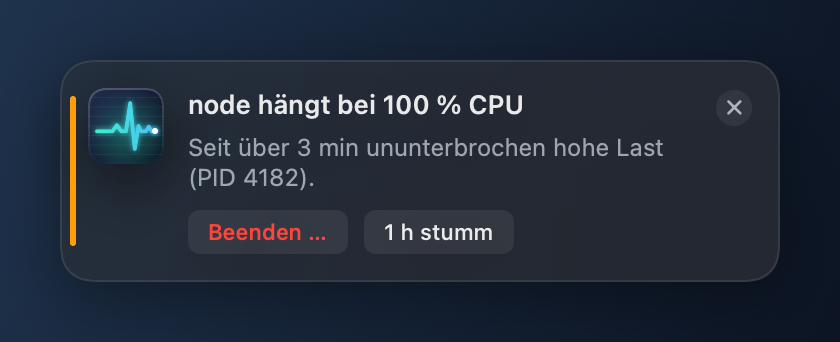
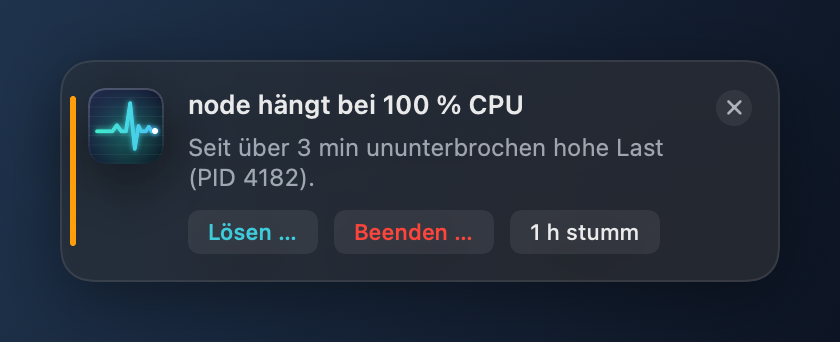
docs: Übersicht, Aufräumen und neue Swap-Regel dokumentieren

Changed region(s): [[0.2476, 0.6433, 0.5881, 0.7018], [0.619, 0.6433, 0.7738, 0.7018]]

diff --git a/README.md b/README.md
@@ -20,6 +20,22 @@ Solange alles normal ist, bleibt sie still und braucht kaum Strom.
   <img src="docs/images/popover-light.png" alt="Popover mit Auffälligkeiten (hell)" width="380">
 </p>
 
+## Übersicht: verstehen und direkt lösen
+
+Ein Klick auf eine Mitteilung, auf „Lösen“ im Popover oder im Hinweisfenster öffnet die **Übersicht**.
+Jede Auffälligkeit steht dort mit Erklärung in Klartext, konkreten Schritten und Knöpfen, die sie
+beheben: App neu starten, beenden, stummschalten, dauerhaft ignorieren, WLAN neu starten. Bei
+Speicher- oder CPU-Problemen listet sie die wahrscheinlichen Verursacher gleich mit.
+
+**SSD aufräumen** misst auf Knopfdruck Caches, die sich von selbst neu aufbauen (App-Caches, Xcode
+DerivedData, npm, uv, Gradle, veraltete Simulatoren, ungenutzte Docker-Images), und leert sie nach
+Rückfrage. Downloads werden nur geöffnet, nie gelöscht. Bewusst ausgenommen sind Daten, die keine
+Wegwerf-Caches sind, etwa Playwright-Browser und Suchindizes in `~/.cache`.
+
+<p align="center">
+  <img src="docs/images/overview.png" alt="Übersicht mit Lösungen und SSD-Aufräumen" width="640">
+</p>
+
 ## Was die App meldet
 
 | Regel | Standard-Auslöser | In der Mitteilung |
@@ -28,7 +44,7 @@ Solange alles normal ist, bleibt sie still und braucht kaum Strom.
 | Speicherfresser | ein Prozess belegt ≥ 25 % des RAM über 1 min | Beenden …, 1 h stumm |
 | CPU dauerhaft hoch | Gesamt-CPU ≥ 90 % über 2 min | die größten Verbraucher |
 | Speicherdruck | Warnstufe über 1 min · kritisch sofort | belegter RAM und Swap |
-| Swap | ≥ 8 GB ausgelagert | |
+| Swap | ≥ 8 GB, solange er wächst (≥ 1 GB in 10 min) oder Speicher knapp ist | Apps mit viel Speicher |
 | Überhitzung | thermischer Zustand „ernst“ oder „kritisch“ | größter Verbraucher |
 | Festplatte voll | < 10 % oder < 15 GB frei | |
 | Internet weg | 30 s offline, Meldung auch bei Wiederkehr | |
@@ -48,7 +64,8 @@ und bietet dieselben Aktionen. Einstellbar: aus, nur an anderen Bildschirmen (St
   <img src="docs/images/overlay.png" alt="Hinweisfenster von MacMonitor" width="420">
 </p>
 
-Testen: `open macmonitor://test` oder „Testmitteilung senden“ in den Einstellungen.
+Testen: `open macmonitor://test` oder „Testmitteilung senden“ in den Einstellungen. Die Übersicht öffnet
+`open macmonitor://overview`, direkt beim Aufräumen `open macmonitor://cleanup`.
 
 **Damit es nicht nervt:**
 

diff --git a/docs/specs/2026-10-02-macmonitor-design.md b/docs/specs/2026-10-02-macmonitor-design.md
@@ -41,7 +41,7 @@ Footprint je Prozess), `ProcessInfo.thermalState`, `NWPathMonitor`, IOKit Power 
 | Speicherfresser | Footprint ≥ 25 % des RAM über 1 min |
 | CPU dauerhaft hoch | gesamt ≥ 90 % über 2 min |
 | Speicherdruck | Warnstufe über 1 min, kritisch sofort |
-| Swap | ≥ 8 GB belegt |
+| Swap | ≥ 8 GB und wachsend (≥ 1 GB in 10 min) oder bei Speicherdruck |
 | Thermik | Zustand „ernst“ oder „kritisch“ |
 | Festplatte | < 10 % oder < 15 GB frei |
 | Netzwerk | offline ≥ 30 s (plus Meldung bei Wiederkehr) |
